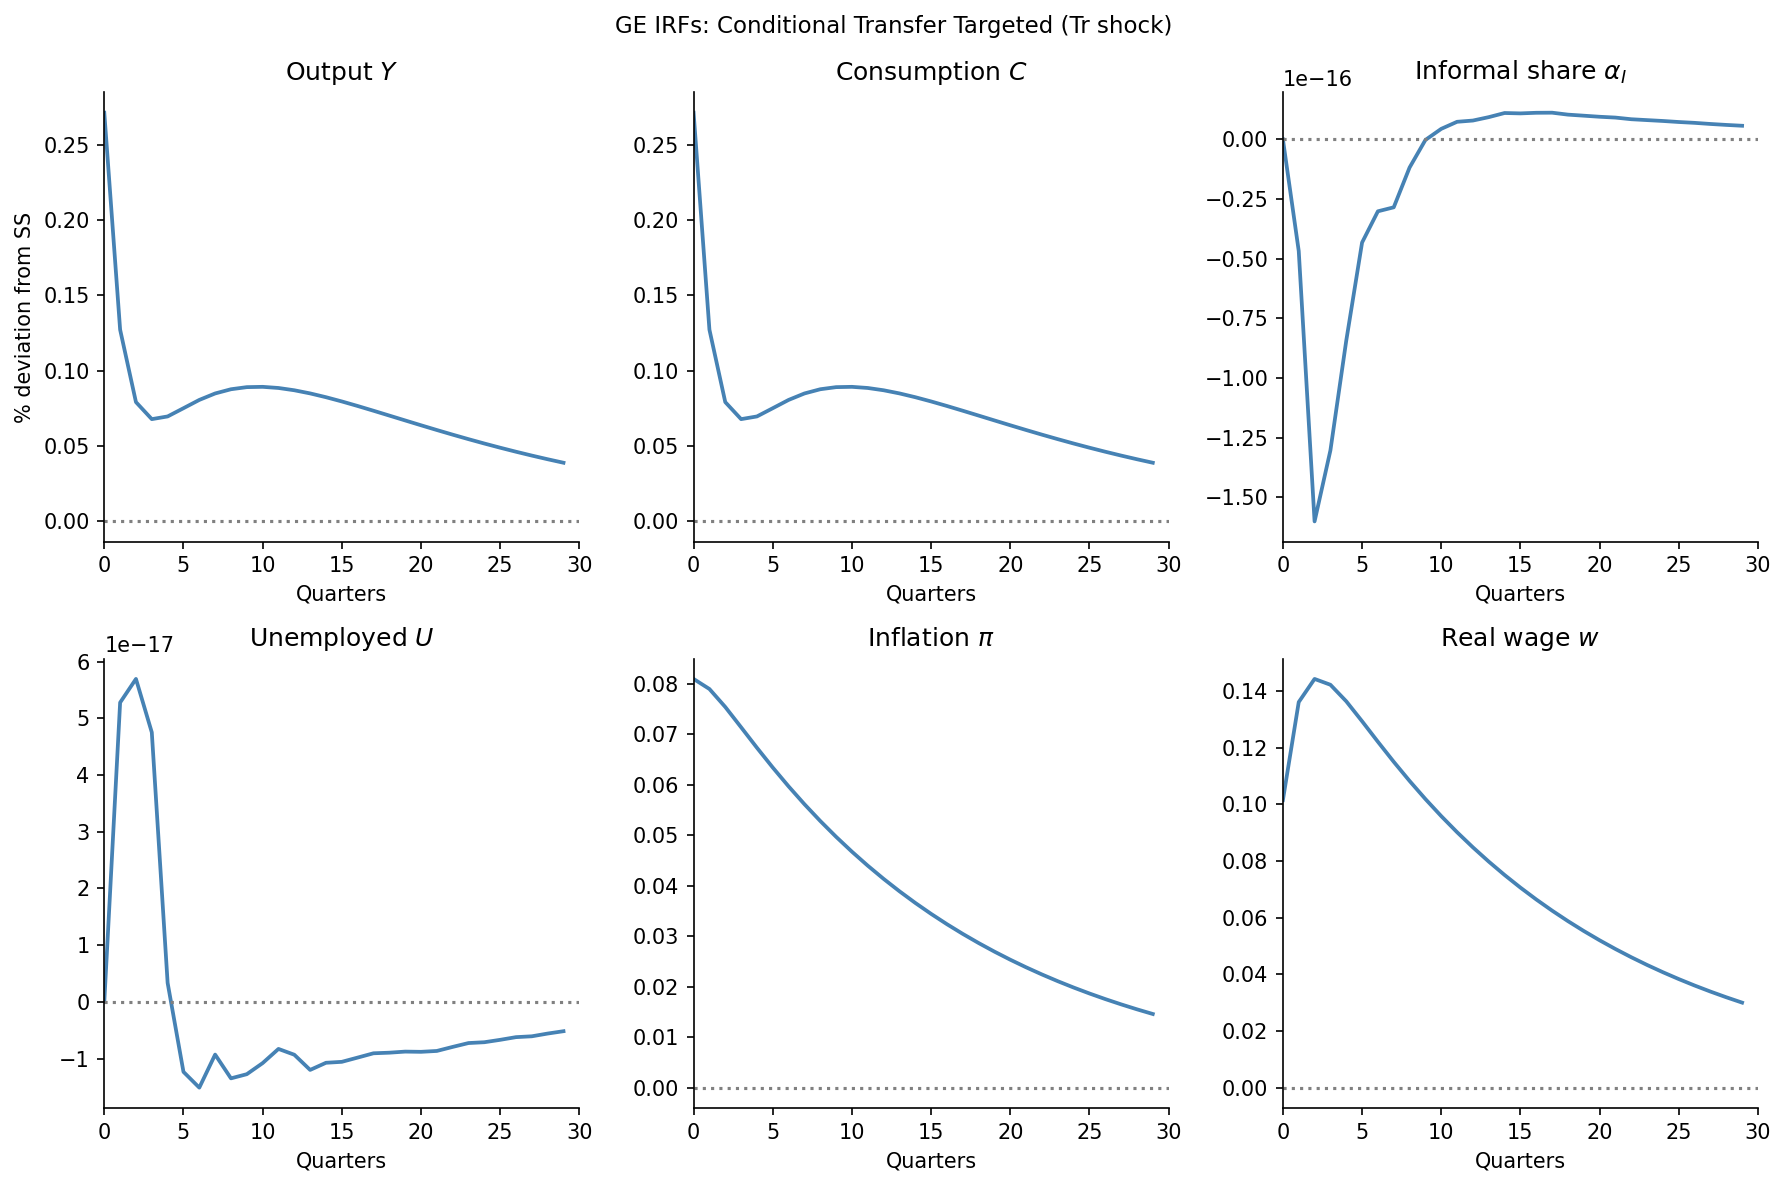
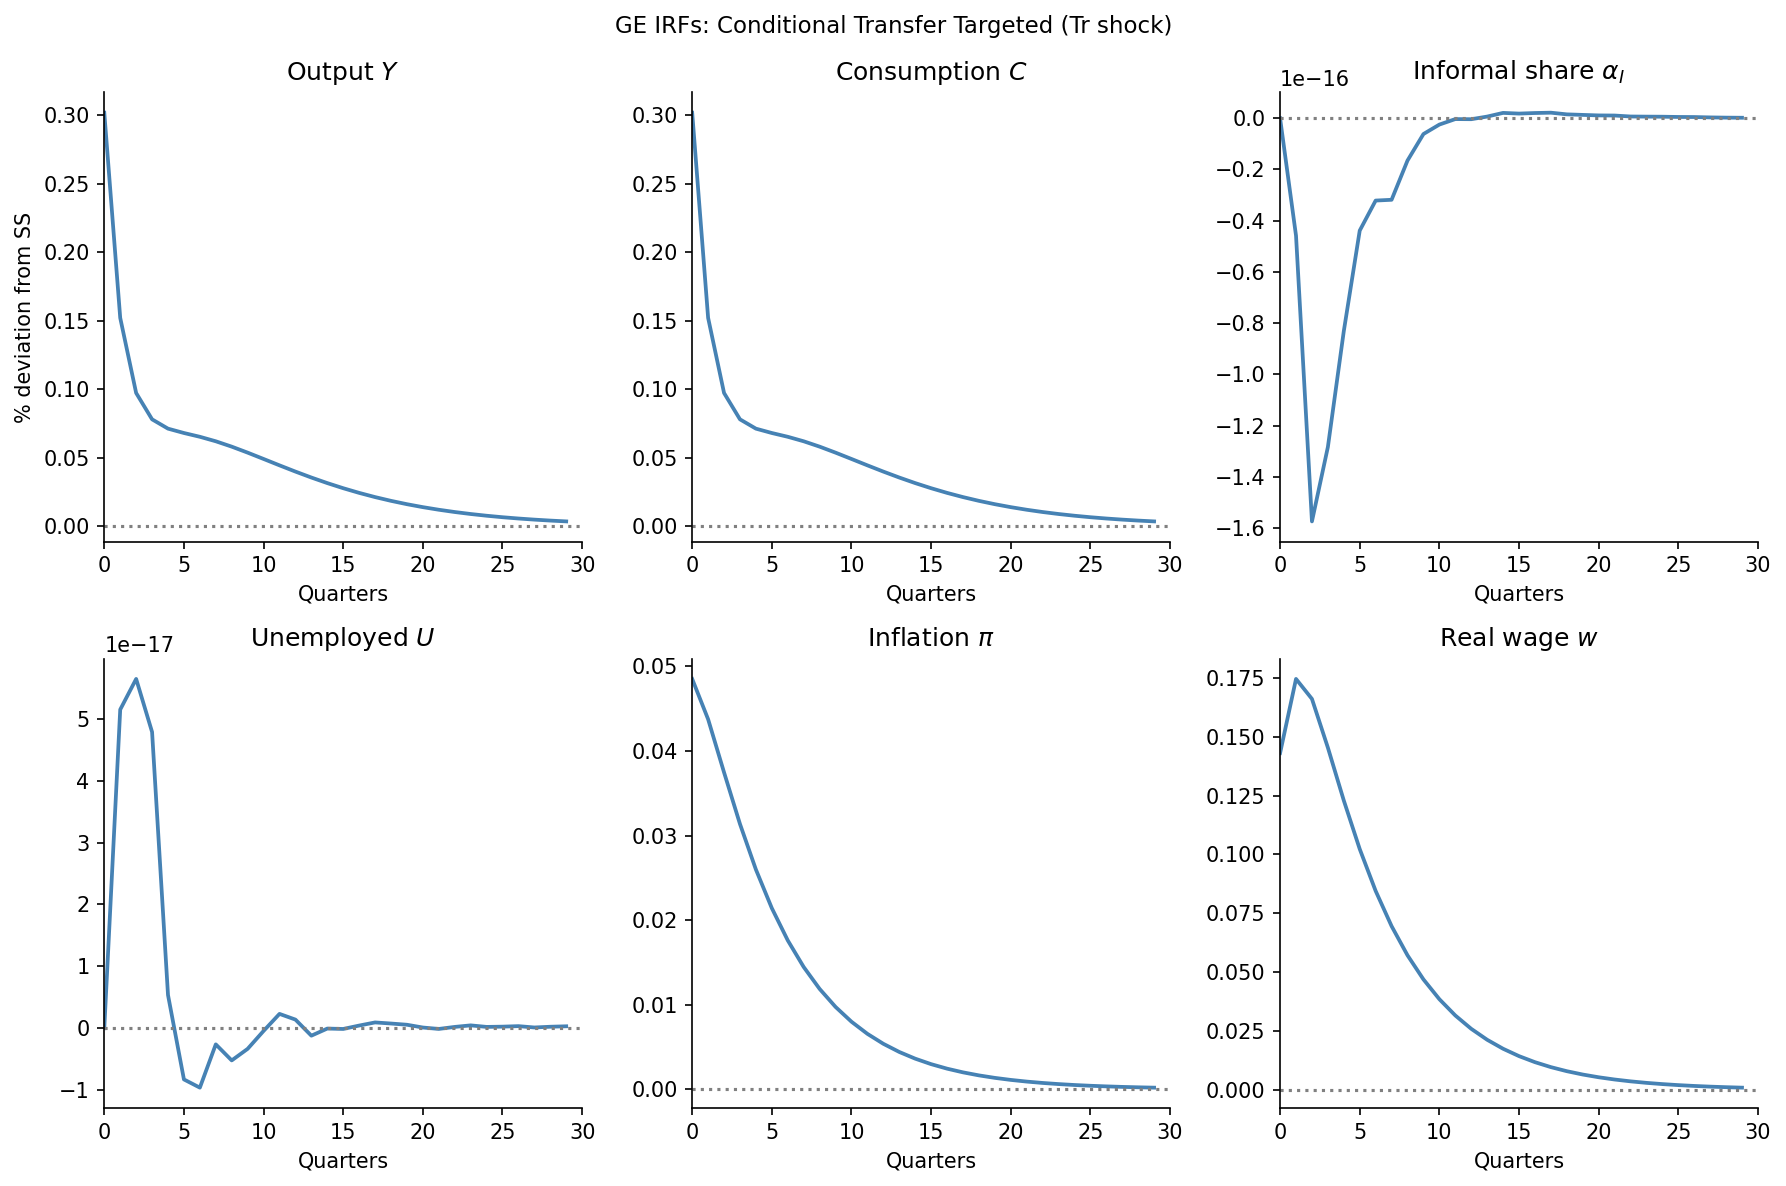
add beta_avg in nkpc

diff --git a/code/other_blocks.py b/code/other_blocks.py
@@ -41,24 +41,22 @@ def nkpc_ss(Z, mu):
 
 # 3. Dynamic Phillips Curves
 @simple
-def phillips_curve(pi, w, Z, Y, r, kappa, mu):
+def phillips_curve(pi, w, w_I, r, Z, Y, mu, kappa, kappa_w,
+                   tau_l, Tr, phi_out, beta_high, dbeta, omega_I):
+    outside_opt = (w_I + Tr) / ((1 - tau_l) * w) - 1
+    beta_avg    = beta_high - dbeta * omega_I
+
     # Price Phillips Curve
     nkpc = (kappa * (w / Z - 1 / mu)
             + Y(+1) / Y * (1 + pi(+1)).apply(np.log) / (1 + r(+1))
             - (1 + pi).apply(np.log))
-    return nkpc
-
-
-@simple
-def wage_phillips_curve(pi, w, w_I, r, tau_l, Z, Tr, kappa_w, mu, phi_out):
-    outside_opt = (w_I + Tr) / ((1 - tau_l) * w) - 1
-
+    
     # Wage Phillips Curve
     pi_w = (1 + pi) * w / w(-1) - 1
     wage_nkpc = (kappa_w * (w / Z - 1 / mu + phi_out * outside_opt)
-                 + (1 + pi_w(+1)).apply(np.log) / (1 + r(+1))
+                 + beta_avg * (1 + pi_w(+1)).apply(np.log)
                  - (1 + pi_w).apply(np.log))
-    return wage_nkpc, pi_w
+    return nkpc, wage_nkpc, outside_opt
 
 
 

diff --git a/code/main.py b/code/main.py
@@ -76,9 +76,9 @@ print(f"Steady State solved in {time.time()-start:.1f}s")    # 18.5 seconds on m
 # ---------------------------------------------------------------------------
 # Dynamics
 
-blocks = [hh, firm_formal, firm_informal, phillips_curve,
-          wage_phillips_curve, monetary, fiscal, mkt_clearing]
-hank   = create_model(blocks, name="HANK - Dynamics")
+blocks = [hh, firm_formal, firm_informal,
+          phillips_curve, monetary, fiscal, mkt_clearing]
+hank = create_model(blocks, name="HANK - Dynamics")
 
 print(f"\nModel inputs (Dynamics):  {hank.inputs}")
 print(f"Model outputs (Dynamics): {hank.outputs}")

diff --git a/code/parameters.py b/code/parameters.py
@@ -55,10 +55,10 @@ calibration = dict(
 
     # --- Firms ---
     mu       = 1.11,   # price markup
-    kappa    = 0.10,   # PC Slope
+    kappa    = 0.10,   # Price PC Slope
     kappa_w  = 0.10,   # Wage PC Slope
     xi       = 0.60,   # informal wage gap
-    phi_out  = 0.5,    # weight of outside option in NKWPC
+    phi_out  = 1.0,    # weight of outside option in NKWPC
 )
 
 